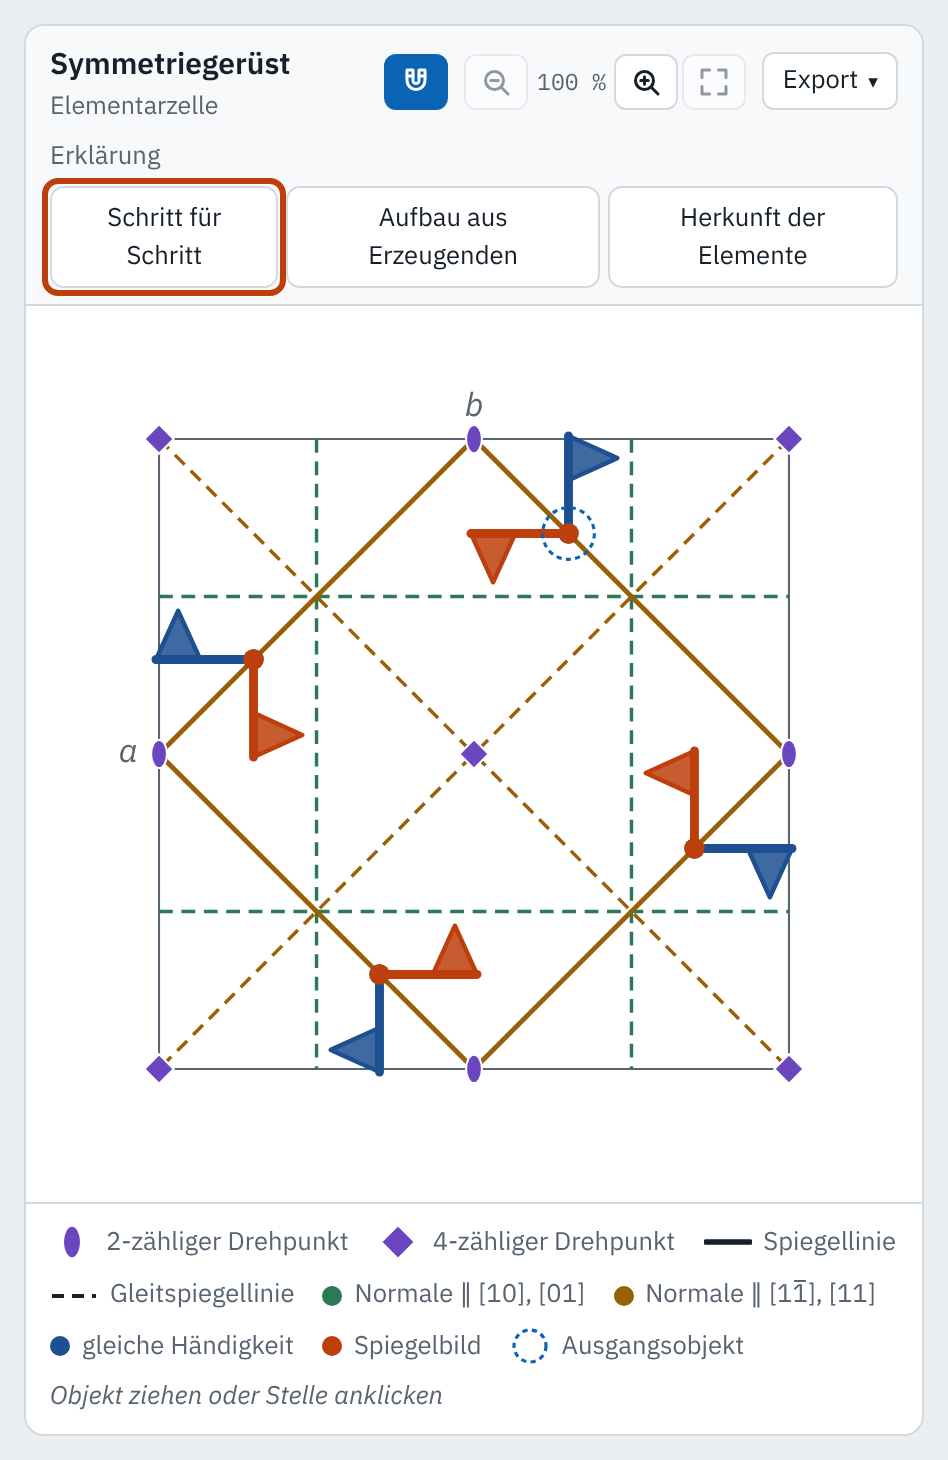
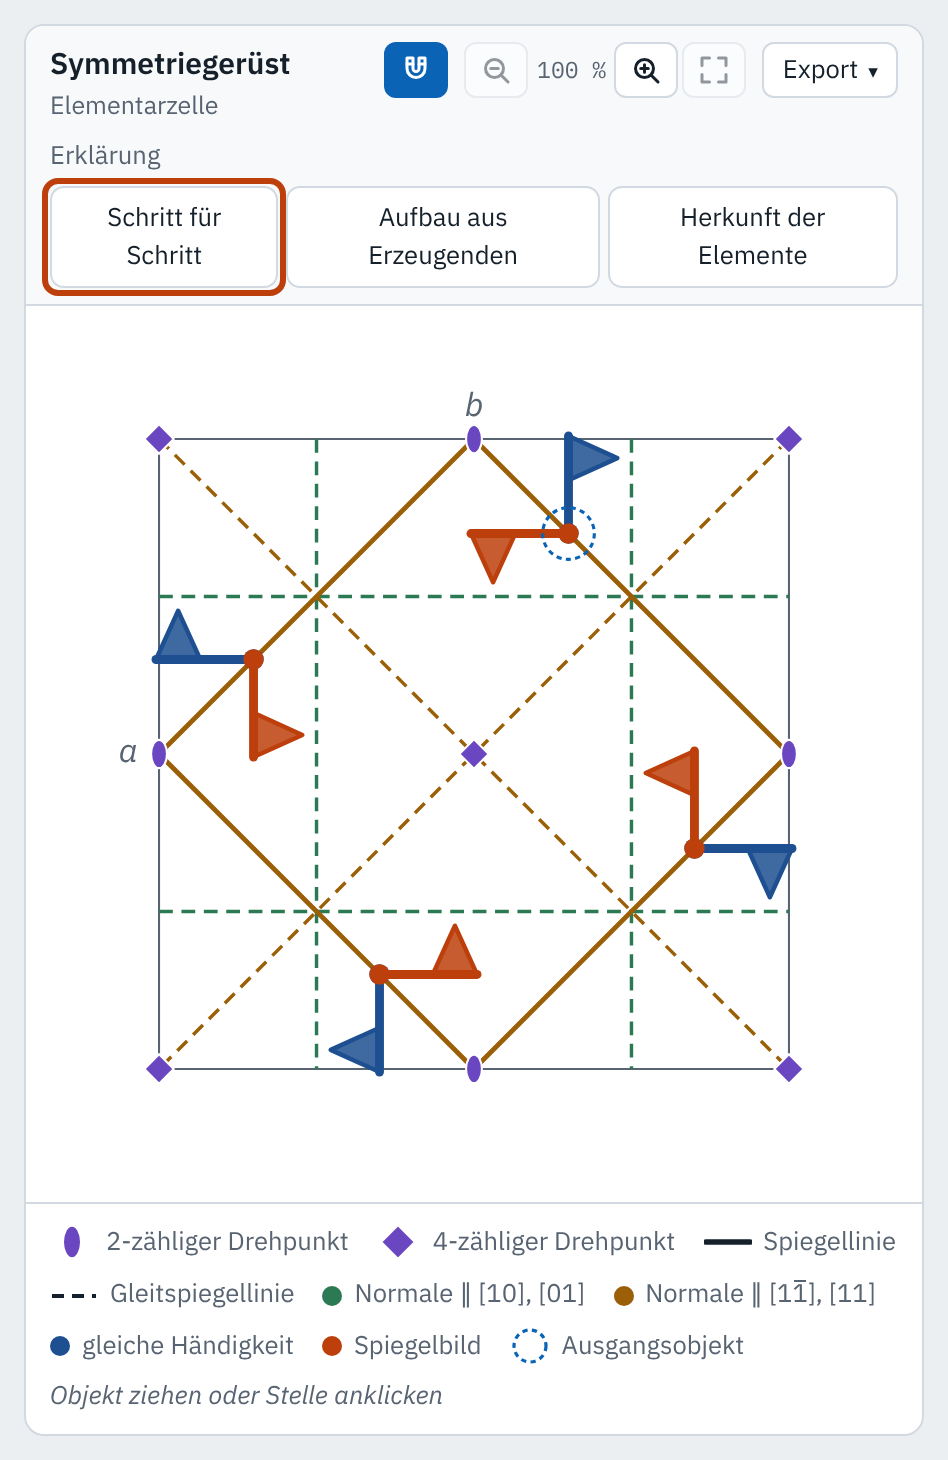
Köpfe beider Tafeln oben ausgerichtet
Claude-Session: https://claude.ai/code/session_01L8SY96VTcRYuEB7LDLyNSV

Changed region(s): [[0.3977, 0.0308, 0.7036, 0.0925], [0.8259, 0.0308, 0.9483, 0.0925], [0.7342, 0.0308, 0.7648, 0.0616]]

diff --git a/index.html b/index.html
@@ -29,7 +29,9 @@
   .figs > .panel { grid-row: 1 / span 4; display: grid; grid-template-rows: subgrid; }
   .figs > .p-a { grid-column: 1; }
   .figs > .p-b { grid-column: 2; }
-  .figs > .panel > .panel-head { grid-row: 1; }
+  /* Kopfzeilen und Knöpfe oben, auch im höheren Kopf und neben einem zweizeiligen Titel, damit sie in beiden Tafeln
+     auf derselben Höhe stehen (Thomas, 13.11.2026) */
+  .figs > .panel > .panel-head { grid-row: 1; align-content: flex-start; align-items: flex-start; }
   .figs > .panel > .bild { grid-row: 2; }
   .figs > .panel > .erklleiste, .figs > .panel > .panel-foot { grid-row: 3; align-self: start; }
   .figs > .panel > .legend { grid-row: 4; }

diff --git a/CLAUDE.md b/CLAUDE.md
@@ -193,7 +193,8 @@ für diese App gilt.
     Kopf mit der Erklärungsauswahl zweizeilig ist. Ohne Erklärleiste reicht die Legende von Tafel A über die Zeile der
     Fusszeile von Tafel B (sonst ein leerer Streifen; Review). **Reihenfolge im Kopf** wie in Tafel B: Titel, Schalter,
     Zoom, Export ganz rechts (Thomas, 13.11.2026); nur bei 720–1100 px bricht der Zoom in eine eigene Zeile, damit der
-    Export oben rechts bleibt.
+    Export oben rechts bleibt. Inhalt der Köpfe oben ausgerichtet, damit Titel und Knöpfe in beiden Tafeln auf derselben
+    Höhe stehen, auch wenn der Kopf von Tafel B höher gezogen ist.
   - **Kein Hinweis „Füllen und Zoom ruhen“** in der Legende (Thomas, 13.11.2026): Die gesperrten Zoomknöpfe zeigen es, den
     Grund für „Füllen“ nennt die Seitenleiste. „Bilder rund um die Zelle“ ohne „(wie ITA)“; der Tooltip nennt die ITA.
 - **Bilder:** nur selbst erzeugte, keine Fotos. Escher nur beschreiben und verlinken (Werke geschützt).
